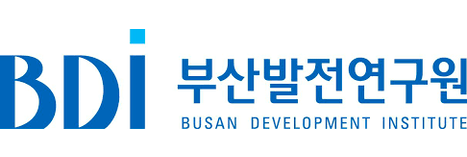
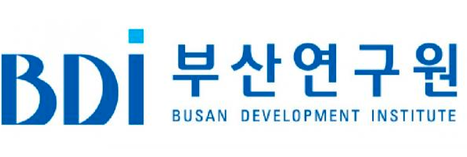
update

diff --git a/index.html b/index.html
@@ -160,7 +160,7 @@
                                     <b>ㅇ 일시</b><br>‘22.10.13 (목) ~ 10.14 (금), ※2일간 </p>
                                     <b>ㅇ 장소</b><br>부산 벡스코 제2전시장 5A홀</p>
                                     <b>ㅇ 주최</b><br>부산광역시, 카이스트 오토아이디랩 부산혁신연구소</p>
-                                    <b>ㅇ 주관</b><br>부산정보산업진흥원, GS1 Korea, 부산상공회의소, 주소기반산업협회, 부산발전연구원, 한국해양수산개발원, 부산서비스산업총연합회, 부산지식서비스융합협회, 미래전략캠퍼스</p>
+                                    <b>ㅇ 주관</b><br>부산정보산업진흥원, GS1 Korea, 부산상공회의소, 주소기반산업협회, 부산연구원, 한국해양수산개발원, 부산서비스산업총연합회, 부산지식서비스융합협회, 미래전략캠퍼스</p>
                                     <b>ㅇ 참석</b><br>300여명 (기업, 학교, 연구소, 지자체 등)</p>
                                 </p>
                                 <div class="about-date-area">
